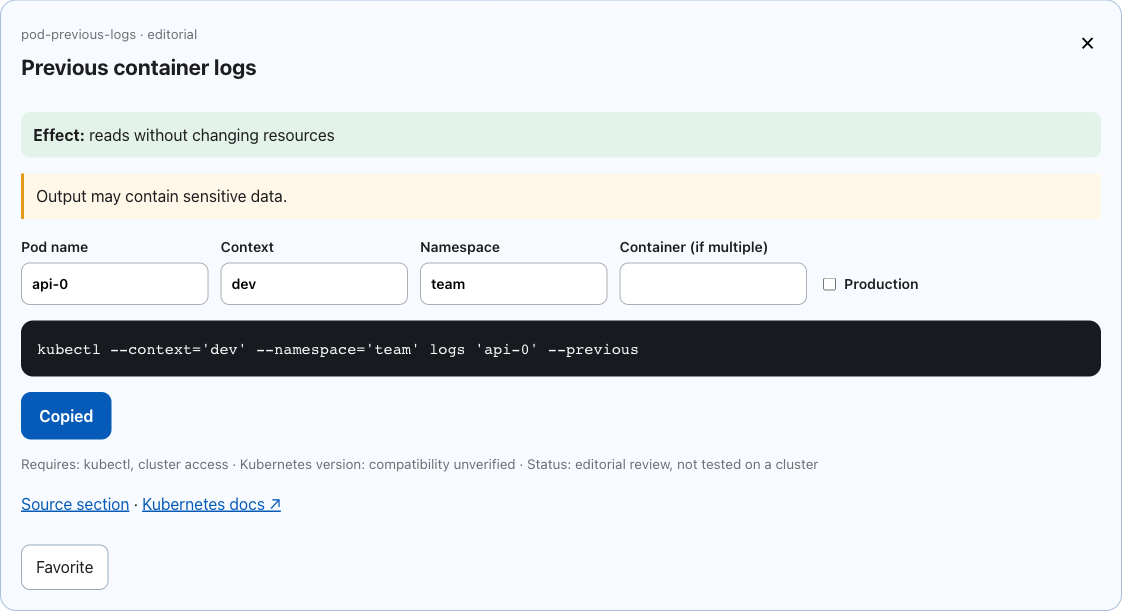
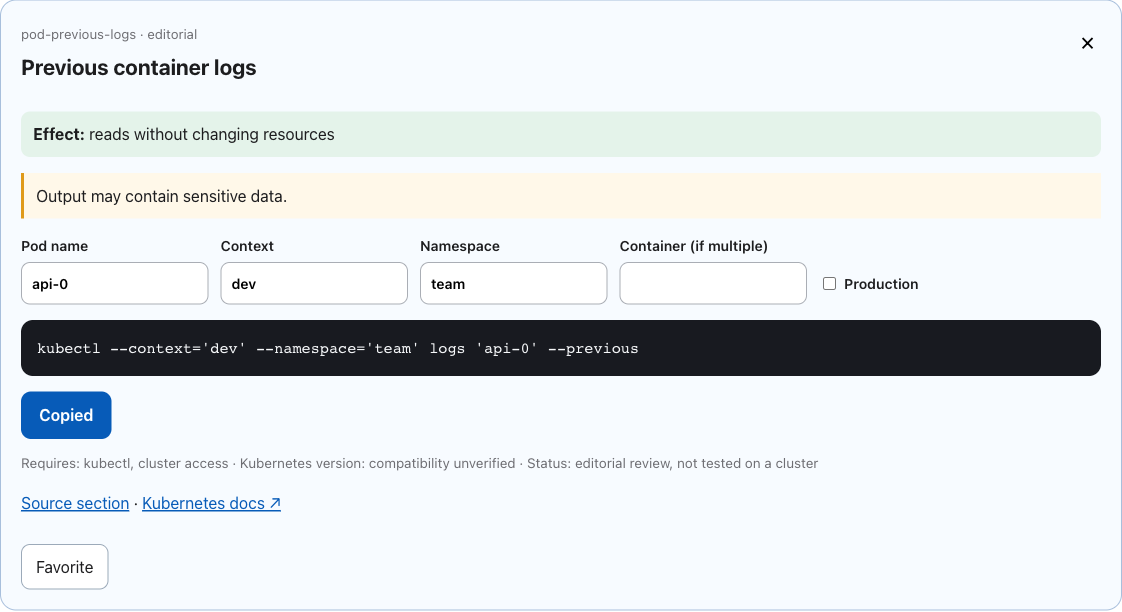
feat: complete recipe filters and document release verification

diff --git a/src/lib/Workbench.svelte b/src/lib/Workbench.svelte
@@ -15,6 +15,11 @@
   let effect = "";
   let tool = "";
   let scope = "";
+  let resource = "";
+  let task = "";
+  let requires = "";
+  let compatibility = "";
+  let shell = "";
   let sensitiveOnly = false;
   let showAll = false;
   let selectedId = "";
@@ -27,6 +32,7 @@
   let copied = false;
   let copyError = false;
   let storageAvailable = true;
+  let storageRecovered = false;
   let saved = { version: 1, favorites: [], collections: [] };
   let collectionName = "";
   let activeCollection = "";
@@ -34,7 +40,7 @@
   let previousFocus;
   let resultCursor = -1;
 
-  $: results = searchRecipes(recipes, query, lang, { category, effect, tool, scope, sensitive: sensitiveOnly });
+  $: results = searchRecipes(recipes, query, lang, { category, effect, tool, scope, resource, task, requires, compatibility, shell, sensitive: sensitiveOnly });
   $: visible = showAll || compact ? results : results.slice(0, 8);
   $: selected = recipeById[selectedId];
   $: built = selected ? buildCommand(selected, values, { context, namespace, container, allNamespaces }) : null;
@@ -48,6 +54,7 @@
     saved = result.data;
     activeCollection = saved.collections[0]?.name || "";
     storageAvailable = result.available;
+    storageRecovered = result.recovered || false;
     const id = new URLSearchParams(window.location.search).get("recipe");
     if (id && recipeById[id]) choose(id);
 
@@ -102,6 +109,7 @@
     saved = next;
     try { storageAvailable = writeCollections(window.localStorage, next); }
     catch (_error) { storageAvailable = false; }
+    if (storageAvailable) storageRecovered = false;
   }
 
   function toggleFavorite(id) {
@@ -165,6 +173,16 @@
       <label class="wb-filter-check"><input type="checkbox" bind:checked={sensitiveOnly}>{lang === "ru" ? "Чувствительный вывод" : "Sensitive output"}</label>
       <span role="status">{results.length} {lang === "ru" ? "рецептов" : "recipes"}</span>
     </div>
+    <details class="wb-advanced"><summary>{lang === "ru" ? "Дополнительные фильтры" : "More filters"}</summary>
+      <div class="wb-filters">
+        <label>{lang === "ru" ? "Ресурс" : "Resource"}<select bind:value={resource}><option value="">{lang === "ru" ? "Все" : "All"}</option><option value="pod">Pod</option><option value="deployment">Deployment</option><option value="service">Service</option><option value="node">Node</option><option value="secret">Secret</option><option value="volume">Volume</option><option value="rbac">RBAC</option><option value="other">{lang === "ru" ? "Другие" : "Other"}</option></select></label>
+        <label>{lang === "ru" ? "Задача" : "Task"}<select bind:value={task}><option value="">{lang === "ru" ? "Все" : "All"}</option><option value="inspect">{lang === "ru" ? "Просмотр" : "Inspect"}</option><option value="diagnose">{lang === "ru" ? "Диагностика" : "Diagnose"}</option><option value="change">{lang === "ru" ? "Изменение" : "Change"}</option><option value="execute">Exec</option></select></label>
+        <label>{lang === "ru" ? "Зависимость" : "Requires"}<select bind:value={requires}><option value="">{lang === "ru" ? "Все" : "All"}</option><option value="kubectl">kubectl</option><option value="helm">helm</option><option value="krew">krew</option></select></label>
+        <label>{lang === "ru" ? "Версия" : "Version"}<select bind:value={compatibility}><option value="">{lang === "ru" ? "Все" : "All"}</option><option value="unknown">{lang === "ru" ? "Не подтверждена" : "Unverified"}</option></select></label>
+        <label>Shell<select bind:value={shell}><option value="">{lang === "ru" ? "Все" : "All"}</option><option value="posix">POSIX</option></select></label>
+      </div>
+      <p class="wb-meta">{lang === "ru" ? "Для текущих рецептов версии Kubernetes не проверены; доступен только POSIX renderer." : "Kubernetes versions are unverified for the current recipes; only POSIX rendering is available."}</p>
+    </details>
     {#if results.length}
       <div class="wb-results" role="listbox" aria-label={lang === "ru" ? "Результаты" : "Results"}>
         {#each visible as item, index (item.id)}
@@ -210,6 +228,7 @@
   {#if !compact}
     <details class="wb-collections"><summary>{lang === "ru" ? "Избранное и подборки" : "Favorites and collections"} ({saved.favorites.length})</summary>
       {#if storageAvailable}
+        {#if storageRecovered}<p role="alert">{lang === "ru" ? "Сохранённые данные повреждены. Подборки начаты заново; сохраните новую запись, чтобы заменить повреждённую." : "Saved data was damaged. Collections were reset; save an item to replace the damaged record."}</p>{/if}
         <h3>{lang === "ru" ? "Избранное" : "Favorites"}</h3>
         {#if saved.favorites.length}<div class="wb-saved-list">{#each saved.favorites as id}<button type="button" on:click={() => choose(id)}>{recipeById[id].title[lang]}</button>{/each}</div>{:else}<p>{lang === "ru" ? "Пока пусто" : "Empty"}</p>{/if}
         <div class="wb-collection-form"><input bind:value={collectionName} maxlength="40" placeholder={lang === "ru" ? "Название подборки" : "Collection name"}><button type="button" on:click={addCollection}>{lang === "ru" ? "Создать" : "Create"}</button></div>

diff --git a/assets/workbench.css b/assets/workbench.css
@@ -6,6 +6,7 @@
 .wb-filters{display:flex;flex-wrap:wrap;gap:12px;align-items:end;margin:14px 0}.wb-filters label,.wb-fields label{display:flex;flex-direction:column;gap:5px;font-size:.88rem;font-weight:600}.wb-filters select,.wb-fields input,.wb-collections input,.wb-collections select{font:inherit;padding:9px 10px;border:1px solid #aaaeb5;border-radius:9px;background:white}.wb-filters>span{color:var(--muted);padding-bottom:8px}
 .wb-results{display:grid;grid-template-columns:repeat(auto-fit,minmax(240px,1fr));gap:8px}.wb-results button{display:flex;justify-content:space-between;align-items:center;text-align:left;gap:12px;padding:13px;border:1px solid var(--line);border-radius:12px;background:#fafbfc;color:var(--text);font:inherit;cursor:pointer}.wb-results button:hover,.wb-results button.active,.wb-results button[aria-selected=true]{border-color:#609ee8;background:#eef6ff}.wb-results strong,.wb-results small{display:block}.wb-results small{color:var(--muted);font-size:.76rem;margin-top:4px}.wb-more,.wb-save button,.wb-collections button{margin:12px 8px 0 0;padding:9px 14px;border:1px solid #9caab9;border-radius:9px;background:white;color:var(--text);font:inherit;cursor:pointer}.wb-empty{padding:16px;color:var(--muted)}
 .wb-filter-check{display:flex!important;flex-direction:row!important;align-items:center;padding-bottom:9px}.wb-saved-list{display:flex;flex-wrap:wrap;gap:7px}
+.wb-advanced{margin:0 0 16px}.wb-advanced summary{cursor:pointer;font-weight:600;color:#075bb8}.wb-advanced .wb-filters{padding:4px 0 0}
 .wb-detail{margin-top:20px;padding:20px;border:1px solid #a8bfdc;border-radius:16px;background:#f7fbff}.wb-detail-head{display:flex;justify-content:space-between;gap:12px}.wb-detail-head h3{font-size:1.35rem;margin:3px 0 12px}.wb-detail-head small{color:var(--muted)}.wb-detail-head button{align-self:start;border:0;background:none;font-size:1.5rem;cursor:pointer}.wb-effect{padding:10px 12px;border-radius:9px;background:#e4f3ea}.wb-effect.danger{background:#fff1da}.wb-notice{padding:10px 12px;border-left:3px solid #df9a19;background:#fff8e9}.wb-fields{display:flex;flex-wrap:wrap;gap:12px;align-items:end;margin:14px 0}.wb-fields label{min-width:180px}.wb-fields .wb-check{display:flex;flex-direction:row;align-items:center;min-width:0;padding-bottom:10px}.wb-fields input[aria-invalid=true]{border-color:#c73d36}.wb-code{white-space:pre-wrap;overflow-wrap:anywhere;padding:16px;border-radius:12px;background:#181a20;color:#f6f8fa;font-size:.95rem}.wb-primary{padding:11px 18px;border:0;border-radius:10px;background:#075bb8;color:white;font:inherit;font-weight:650;cursor:pointer}.wb-meta{color:var(--muted);font-size:.85rem}.wb-links a,.wb-collections a{color:#075bb8}.wb-save{margin-top:10px}.wb-collections{margin-top:20px;border-top:1px solid var(--line);padding-top:16px}.wb-collections summary{font-weight:650;cursor:pointer}.wb-collections label{display:block;margin:10px 0}.wb-collection-form{display:flex;flex-wrap:wrap;align-items:center;gap:8px}.wb-collections>a{display:inline-block;margin:12px}.workbench.compact .wb-head h2{font-size:1.15rem}.workbench.compact .wb-head p{display:none}
 @media(max-width:650px){.workbench{margin:24px 12px;padding:18px}.wb-results{grid-template-columns:1fr}.wb-fields label{min-width:100%;}.workbench.compact{margin:0 0 20px}}
 .runbooks{max-width:1180px;margin:42px auto;padding:28px;border:1px solid var(--line);border-radius:24px;background:white}.runbooks h2{margin:0 0 18px}.runbook-tabs{display:flex;flex-wrap:wrap;gap:8px}.runbook-tabs button{padding:10px 14px;border:1px solid #9caab9;border-radius:10px;background:white;font:inherit;cursor:pointer}.runbook-tabs button[aria-pressed=true]{background:#eaf3ff;border-color:#4690df}.runbook-card{margin-top:16px;padding:20px;border-radius:14px;background:#f8fafc}.runbook-card h3{margin-top:0}.runbook-card li{margin:10px 0;overflow-wrap:anywhere}.runbook-card code{font-size:.86em}.runbook-card label{display:flex;flex-direction:column;gap:6px;font-weight:650}.runbook-card select{max-width:500px;padding:10px;border:1px solid #aab0b7;border-radius:9px;font:inherit}.runbook-next{padding:12px;border-left:4px solid #2875bd;background:#eaf3ff}.runbook-limits{color:#555}.runbook-card a{color:#075bb8}@media(max-width:650px){.runbooks{margin:24px 12px;padding:18px}}

diff --git a/src/lib/runbooks.js b/src/lib/runbooks.js
@@ -10,7 +10,7 @@ export const runbooks = [
       { id: "unknown", label: { ru: "Данных недостаточно", eng: "Not enough evidence" }, next: { ru: "Соберите события, текущие и предыдущие логи всех нужных контейнеров; эскалируйте с временными метками.", eng: "Collect events and current and previous logs for relevant containers; escalate with timestamps." } }
     ],
     expected: { ru: "События покажут причины рестартов, а --previous даст вывод прошлого экземпляра контейнера, если он сохранён.", eng: "Events may show restart reasons; --previous returns the earlier container instance if retained." },
-    limits: { ru: "Логи могут содержать секреты; при нескольких контейнерах укажите контейнер вручную. Старые логи могут быть недоступны.", eng: "Logs may contain secrets; select a container when there are several. Earlier logs may be unavailable." }
+    limits: { ru: "Логи могут содержать секреты; при нескольких контейнерах укажите контейнер в карточке команды. Старые логи могут быть недоступны.", eng: "Logs may contain secrets; select the container in the recipe when there are several. Earlier logs may be unavailable." }
   },
   {
     id: "pending", title: { ru: "Pod остаётся Pending", eng: "Pod stays Pending" },

diff --git a/src/lib/catalog.svelte b/src/lib/catalog.svelte
@@ -158,7 +158,7 @@ export const ui = {
     lead: "Найдите команду по задаче, объекту или сценарию. На русском и английском.",
     searchLabel: "Поиск по командам",
     searchPlaceholder: "Попробуйте logs, rollout или namespace",
-    commandCountLabel: "блоков примеров",
+    commandCountLabel: "уникальных рецептов",
     navBrowse: "Разделы",
     navDocs: "Документация",
     navContribute: "Участвовать",
@@ -168,7 +168,7 @@ export const ui = {
     description: "Быстрый двуязычный справочник команд kubectl для ежедневной работы с Kubernetes.",
     quickKicker: "Быстрый старт",
     quickTitle: "Часто нужно прямо сейчас",
-    quickNote: "Проверенные сценарии",
+    quickNote: "Сценарии из справочника",
     categoriesKicker: "Справочник",
     categoriesTitle: "Все разделы",
     categoriesDescription: "От первого get до диагностики кластера.",
@@ -208,7 +208,7 @@ export const ui = {
     lead: "Find a command by task, object, or scenario. Available in English and Russian.",
     searchLabel: "Search commands",
     searchPlaceholder: "Try logs, rollout, or namespace",
-    commandCountLabel: "example blocks",
+    commandCountLabel: "unique recipes",
     navBrowse: "Browse",
     navDocs: "Documentation",
     navContribute: "Contribute",

diff --git a/src/lib/recipes.js b/src/lib/recipes.js
@@ -2,10 +2,28 @@
 // not executed against a Kubernetes cluster or guaranteed for every version.
 const source = "https://kubernetes.io/docs/reference/kubectl/";
 
+function resourceFor(id) {
+  if (/^pods?-/.test(id)) return "pod";
+  if (/^deployment-/.test(id)) return "deployment";
+  if (/^services?-/.test(id)) return "service";
+  if (/^nodes?-/.test(id)) return "node";
+  if (/^secrets?-/.test(id)) return "secret";
+  if (/^(pvcs?|pvs?)-/.test(id)) return "volume";
+  if (/^(roles|clusterroles|can-i)-/.test(id)) return "rbac";
+  return "other";
+}
+
+function taskFor(id, effect) {
+  if (effect === "write") return "change";
+  if (effect === "exec") return "execute";
+  if (/^(pod-describe|pod-previous-logs|service-describe|service-slices|node-describe)$/.test(id)) return "diagnose";
+  return "inspect";
+}
+
 function recipe(id, category, section, ruHash, enHash, ruTitle, enTitle, command, effect = "read", params = [], extras = {}) {
   return {
     id, category, section, status: "editorial", effect,
-    compatibility: "unknown", shell: "posix",
+    compatibility: "unknown", shell: "posix", resource: resourceFor(id), task: taskFor(id, effect),
     title: { ru: ruTitle, eng: enTitle }, command, params,
     source: extras.source || source,
     requires: extras.requires || ["kubectl", "cluster access"],

diff --git a/src/App.svelte b/src/App.svelte
@@ -4,6 +4,7 @@
   import { hasDoc, headings, loadDoc } from "./lib/docs.js";
   import Workbench from "./lib/Workbench.svelte";
   import Runbooks from "./lib/Runbooks.svelte";
+  import { recipes } from "./lib/recipes.js";
 
   const commandIndex = Array.isArray(window.commandIndex) ? window.commandIndex : [];
   const route = parseRoute();
@@ -23,7 +24,6 @@
       })
     : [];
   $: visibleCategories = categories.filter((category) => matches(category));
-  $: commandCount = commandIndex.filter((item) => item.lang === lang).length;
 
   $: if (typeof document !== "undefined") {
     document.documentElement.lang = lang === "ru" ? "ru" : "en";
@@ -214,7 +214,7 @@
       </label>
 
       <div class="hero-meta">
-        <span class="command-count"><strong>{commandCount}</strong> <span>{copy.commandCountLabel}</span></span>
+        <span class="command-count"><strong>{recipes.length}</strong> <span>{copy.commandCountLabel}</span></span>
       </div>
     </section>
 

diff --git a/tests/e2e/workspace.spec.js b/tests/e2e/workspace.spec.js
@@ -100,3 +100,13 @@ test("collection restores saved recipe without storing parameters", async ({ pag
   expect(stored).toContain("pod-previous-logs");
   expect(stored).not.toContain("private-pod-0");
 });
+
+test("catalog facets combine without claiming version compatibility", async ({ page }) => {
+  await page.goto("/");
+  await page.locator(".wb-advanced summary").click();
+  await page.getByRole("combobox", { name: "Resource", exact: true }).selectOption("pod");
+  await page.getByRole("combobox", { name: "Task", exact: true }).selectOption("diagnose");
+  await page.getByRole("combobox", { name: "Version", exact: true }).selectOption("unknown");
+  await expect(page.locator(".wb-results [role=option]")).toHaveCount(2);
+  await expect(page.getByText("Kubernetes versions are unverified")).toBeVisible();
+});

diff --git a/src/lib/search.js b/src/lib/search.js
@@ -40,7 +40,11 @@ export function searchRecipes(recipes, query, lang = "eng", filters = {}) {
     (!filters.sensitive || recipe.sensitive) &&
     (!filters.tool || recipe.command.startsWith(`${filters.tool} `)) &&
     (!filters.scope || (recipe.scope || "namespace") === filters.scope) &&
-    (!filters.requires || recipe.requires.includes(filters.requires))
+    (!filters.requires || recipe.requires.includes(filters.requires)) &&
+    (!filters.resource || recipe.resource === filters.resource) &&
+    (!filters.task || recipe.task === filters.task) &&
+    (!filters.compatibility || recipe.compatibility === filters.compatibility) &&
+    (!filters.shell || recipe.shell === filters.shell)
   ).map((recipe) => {
     const title = tokens(recipe.title[lang]);
     const intents = tokens(recipe.intents.join(" "));

diff --git a/src/lib/collections.js b/src/lib/collections.js
@@ -13,11 +13,16 @@ export function normalizeCollections(value, validIds) {
 }
 
 export function readCollections(storage, validIds) {
+  let raw;
   try {
-    const raw = storage.getItem(key);
-    return { data: normalizeCollections(raw ? JSON.parse(raw) : null, validIds), available: true };
+    raw = storage.getItem(key);
   } catch (_error) {
     return { data: normalizeCollections(null, validIds), available: false };
+  }
+  try {
+    return { data: normalizeCollections(raw ? JSON.parse(raw) : null, validIds), available: true, recovered: false };
+  } catch (_error) {
+    return { data: normalizeCollections(null, validIds), available: true, recovered: true };
   }
 }
 

diff --git a/docs/implementation-report.md b/docs/implementation-report.md
@@ -1,27 +1,50 @@
-# Implementation report
+# Отчёт о первом продуктовом релизе
 
-Date: 2026-09-21. Starting HEAD: `21f8b16f58a9a06e7afcba46eb8eac1030bdb64d`. The working tree was clean before changes.
+Дата: 21 сентября 2026 года. Исходный HEAD: `21f8b16f58a9a06e7afcba46eb8eac1030bdb64d`; рабочее дерево перед началом было чистым. Чекпойнты: `f3873d3`, `491fbae`, `c1ec7cb`, `058bdff` и финальный коммит этого отчёта.
 
-## Scope and status
+## Что было и что стало
 
-T01 is partially complete. The search index now retains entire fenced examples, including multiline pipelines and heredocs. Search results link to the source section without a copy action; documentation blocks also no longer offer bulk copying. This is an interim safeguard until individual examples have reviewed IDs and effects. RU/EN examples were corrected for `diff` then `apply`, Pod readiness, EndpointSlice diagnosis, and node debugging privileges. The home count now reports indexed example blocks without an invented fallback.
+Раньше поиск индексировал отдельные строки, теряя продолжения pipeline и heredoc; смешанные блоки можно было копировать целиком. Теперь старый справочник доступен для чтения и поиска по полному fenced-блоку без массового копирования. Выделены 40 канонических RU/EN рецептов с единым ID, источником, зависимостями, параметрами, эффектом и редакторским статусом. Их используют поиск, карточки, конструктор, избранное и ранбуки. Число на главной показывает именно 40 уникальных рецептов.
 
-T02–T08 are not started. The original Markdown pages and published URLs remain in place. Existing anchors are unchanged. No local user data is migrated or stored by this change.
+Исправлены RU/EN примеры `diff` → `apply`, NOT ready, EndpointSlice и описание `kubectl debug node`. Для автоматизированного `diff` приведена отдельная обработка кодов 0/1/>1. Команды в браузере не выполняются; `kubeconfig`, токены и пользовательские параметры не отправляются на сервер. Документы предварительно разбираются структурным Markdown-парсером, очищаются от сырого HTML и загружаются по одному модулю на страницу.
 
-## Files changed
+Редакторская сверка этих примеров опирается на [коды выхода kubectl diff](https://kubernetes.io/docs/reference/kubectl/generated/kubectl_diff/), [EndpointSlice и статус Endpoints](https://kubernetes.io/docs/concepts/services-networking/service/) и [профили node-debug](https://kubernetes.io/docs/tasks/debug/debug-cluster/kubectl-node-debug/).
 
-`scripts/build_search_index.rb`, `scripts/check_examples.rb`, `assets/search-index.js`, `src/App.svelte`, `src/lib/catalog.svelte`, `package.json`, `ru/management.md`, `eng/management.md`, `ru/viewing.md`, `eng/viewing.md`, `ru/utilities.md`, `eng/utilities.md`, and this report.
+## Состояние T01–T08
 
-## Checks performed
+| Задача | Состояние | Проверяемый результат и граница |
+|---|---|---|
+| T01 | Закрыта для первого набора | Multiline и heredoc сохраняются; неразмеченные блоки не копируются. Исправленные примеры и stub `kubectl` проверены. Остальной исторический справочник остаётся без полной редакторской ревизии. |
+| T02 | Закрыта для 40 рецептов | Схема, общие ID и RU/EN ссылки проверяются автоматически; legacy URL и якоря сохранены. Статус `editorial` не означает проверку на кластере. |
+| T03 | Закрыта для 40 рецептов | Общий поиск на главной и страницах документации, словарь, опечатки, рейтинг, 30/30 Top‑5, полная выдача и комбинируемые фильтры ресурса, задачи, последствий, чувствительности, инструмента, области, версии, shell и зависимостей. Все версии пока честно `unknown`, профиль shell только POSIX. |
+| T04 | Закрыта для ограниченного набора | Get, describe, logs (включая previous и контейнер), events, rollout status/restart и диагностика Service. Параметры валидируются; POSIX quoting, context, namespace и `--all-namespaces` проверены. Остальные рецепты с параметрами ссылаются на справочник без кнопки копирования. |
+| T05 | Закрыта для доступного конструктора | Эффект показан возле команды; restart помечен изменением, exec отдельно, server dry-run — неизвестным влиянием. Production — вводимый пользователем акцент, без заявления о безопасности. |
+| T06 | Закрыта | Избранное и подборки хранят только ID; доступны восстановление, открытие, удаление и экспорт ID. Повреждённая запись и недоступный localStorage обрабатываются. |
+| T07 | Закрыта | CrashLoopBackOff, Pending и Service недоступен: наблюдения, ветки, диагностические шаги, ожидаемые результаты, ограничения, эскалация и исход «недостаточно данных». |
+| T08 | Частично | Локальные `verify`, unit/fixture, production build и e2e выполнены. CI обновлён для Ruby, jq и Chromium, но удалённые GitHub/GitLab jobs в этом workspace не запускались. Интеграционные проверки на одноразовом кластере не проводились. |
 
-- Baseline `npm run verify` and `npm run build` failed because dependencies were absent. Ruby heading and anchor checks passed.
-- `npm ci` completed.
-- `npm run verify`: passed, including `svelte-check` with zero errors and warnings.
-- `npm run build`: passed with Vite 7.3.6.
-- `check_examples.rb` confirms RU/EN CSR heredocs, events pipelines, readiness queries, and removal of the unsafe diff/apply chain.
+## Изменённые файлы
 
-No browser screenshots or browser tests were produced. No Kubernetes command was run against a cluster. The revised `diff` example separates review and apply, so exit-code stub tests for an automated flow do not apply yet. Pod readiness output was not tested against a cluster or fixture.
+- Данные и логика: `src/lib/recipes.js`, `search.js`, `command.js`, `collections.js`, `runbooks.js`, `Workbench.svelte`, `Runbooks.svelte`, `docs.js`, `src/App.svelte`, `src/lib/catalog.svelte`.
+- Документы и индекс: `ru/{management,viewing,utilities}.md`, `eng/{management,viewing,utilities}.md`, `scripts/build_search_index.rb`, `assets/search-index.js`, `scripts/build_docs.mjs`, `src/lib/generated-docs/*`; прежний `src/lib/docs.svelte` удалён.
+- Проверки и публикация: `scripts/check_*.rb`, `scripts/check_*.mjs`, `tests/fixtures/pods.json`, `tests/e2e/workspace.spec.js`, `playwright.config.js`, `package.json`, `package-lock.json`, `.github/workflows/pages.yml`, `.gitlab-ci.yml`, `.gitignore`, `README.md`, `assets/workbench.css`, `src/main.js`.
 
-## Remaining limitations and next work
+## Фактически выполненные проверки
 
-The search index holds whole documentation blocks for discovery, so its count is of blocks, not unique recipes. Search results deliberately do not present a copyable command. T02 should introduce reviewed recipes with stable IDs, exact command boundaries, effects, RU/EN parity, and regression fixtures before restoring command copying. T03 should then index those recipes and expose all ranked results. Remaining A04–A10 items need separate review and implementation.
+- Исходно `npm run verify` и `npm run build` не выполнялись из-за отсутствия npm-зависимостей; Ruby-проверка заголовков и ссылок проходила. После `npm ci` оба выполняются.
+- `npm run verify`: все Ruby/Node fixtures и `svelte-check` прошли, 0 ошибок и предупреждений. Проверены heredoc, pipeline, RU/EN якоря, 40 схем, 30 поисковых запросов, quoting/injection, cluster scope, `-A`/namespace, контейнеры, diff 0/1/2 на fake `kubectl`, Pod readiness на JSON fixture, подборки и три ранбука.
+- `npm run build`: прошла production-сборка всех 18 RU/EN документов. Основной JS после разделения документов — около 299 КБ до gzip против примерно 478 КБ перед ним; это размер файла сборки, не замер скорости загрузки.
+- `PREVIEW=1 CAPTURE_SCREENSHOTS=1 npm run test:e2e`: 10/10 сценариев на локальной production-сборке в Chrome. Проверены preview=clipboard, запрет копирования неверных параметров, избранное и подборка после reload, клавиатура, поиск и перевод якоря на странице документации, ранбук, комбинация фильтров, недоступный localStorage, мобильная ширина и отсутствие внешних запросов с введённым поисковым текстом.
+- `git diff --check`: без ошибок.
+
+Скриншоты работающих сценариев: [конструктор](screenshots/recipe-builder.png), [ранбук Service](screenshots/service-runbook.png).
+
+## Ограничения и совместимость
+
+Старые `.html` URL, Markdown-источники и старые якоря сохранены; переключение языка переводит известный якорь по порядку заголовков. Индекс исторических блоков служит поиску по справочнику, а не источником копируемых команд. Непроверенные версии Kubernetes не объявляются совместимыми. POSIX — единственный профиль формирования команд; PowerShell не заявлен. Параметры команды живут только в памяти страницы; localStorage хранит публичные ID и выбранный язык. Предыдущего формата подборок в проекте не было; новые записи имеют `version: 1`, неизвестные ID отбрасываются при чтении.
+
+Локальный браузерный прогон не доказывает работу удалённых CI runner и не заменяет тест на одноразовом кластере. Команды с учётом реальных RBAC, admission webhook, версий Kubernetes и shell профилей остаются предметом следующей редакторской и интеграционной проверки.
+
+## Следующие задачи
+
+Уточнять фильтры версии и shell по мере появления проверенных данных; расширить каталог после редакторской проверки; выполнить CI в GitHub/GitLab и интеграционные тесты на явно созданной одноразовой среде без production credentials. Не возвращать копирование исторических смешанных блоков до разметки границ, эффектов и предупреждений каждого примера.

diff --git a/README.md b/README.md
@@ -36,7 +36,9 @@ npm run verify
 This rebuilds the search index, checks anchors, and runs `svelte-check`.
 
 It also validates the 40 bilingual recipes, command rendering, collections,
-search ranking and read-only playbooks. Ruby, Node.js and npm are required.
+search ranking and read-only playbooks. Ruby, jq, Node.js and npm are required.
+`npm run verify` regenerates the per-page documentation modules; commit them
+with any matching Markdown changes.
 
 For browser tests, install Playwright Chromium and run:
 
